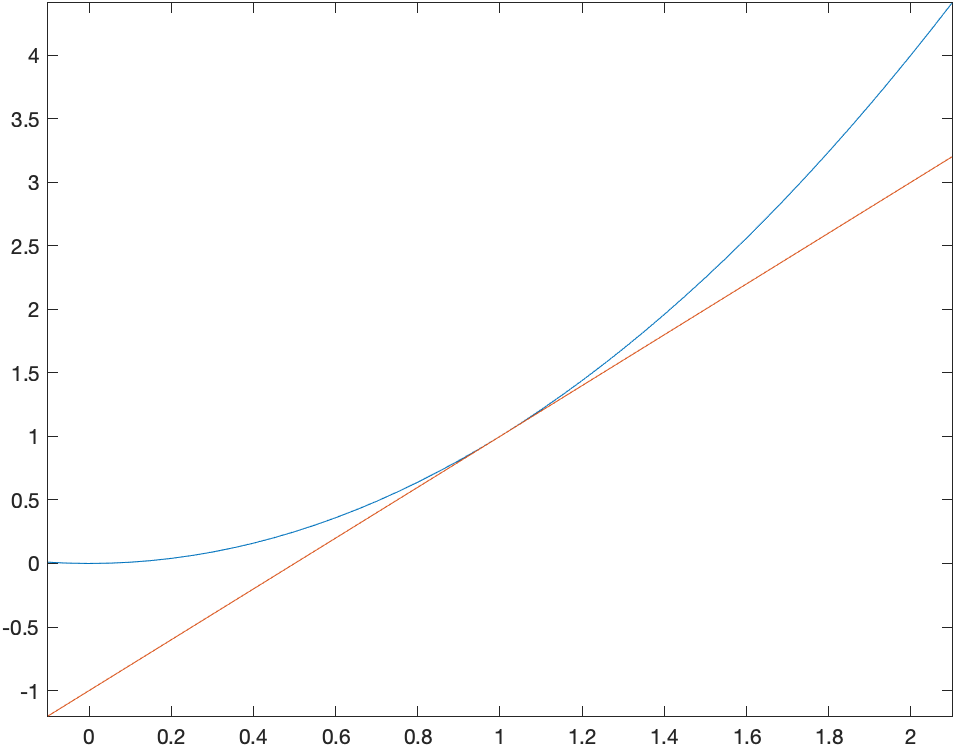
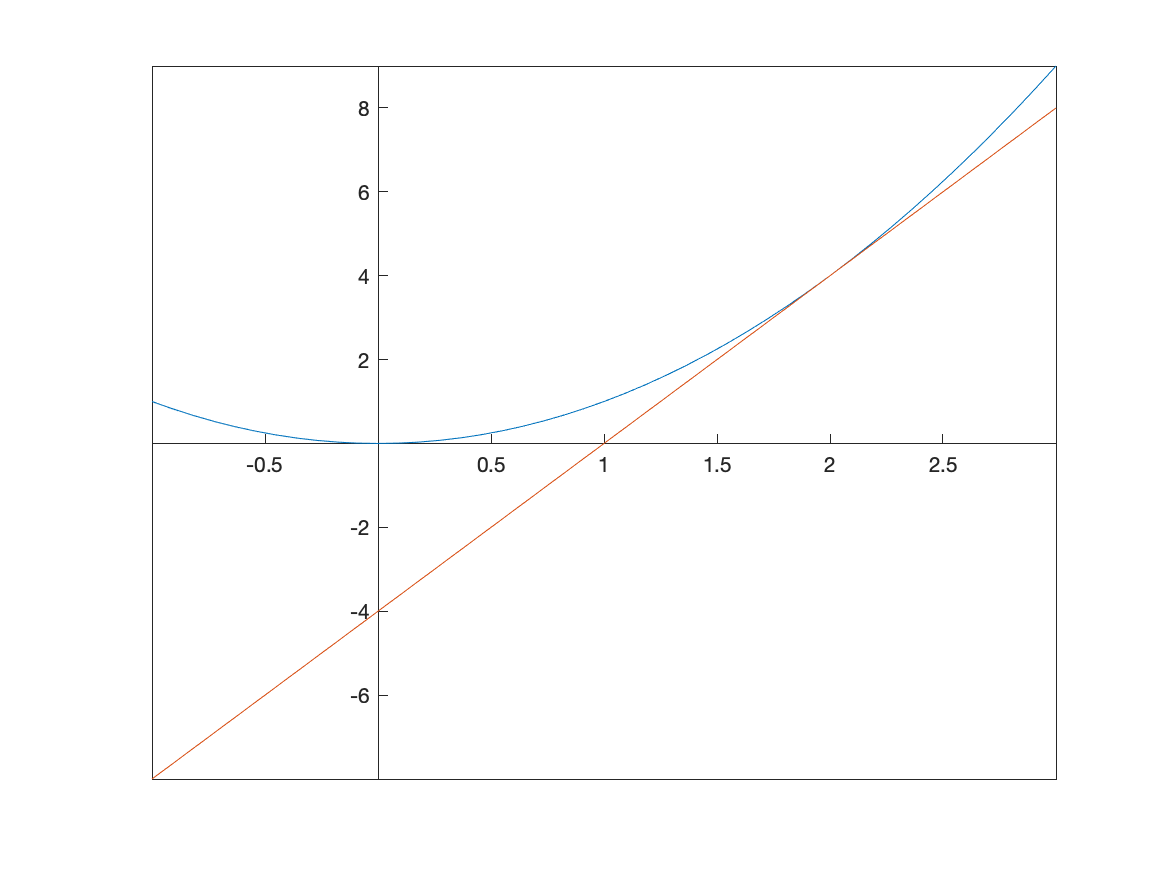
fix some errors.

diff --git a/sym-comp-notes/ch-05.md b/sym-comp-notes/ch-05.md
@@ -40,7 +40,9 @@ We can make the this look a bit more like a table with
 transpose([xvals;yvals])
 ```
 
-it will look like: $$ \begin {array}{ll}
+it will look like:
+
+$$ \begin {array}{ll}
 0.9& 0.81\\
 0.99&0.9801\\
 0.999& 0.998001\\
@@ -150,30 +152,30 @@ The reason that we discuss secant lines in Calculus, is that we want to know the
 If instead of defining the slope of the line through $(1,1)$ and $(2,4)$, instead, let's make a function that is the slope of the line that passes through $(1,1)$ and $(t,t^{2})$.
 
 ```matlab
-syms t slope(t)
-slope(t)=(subs(f,x,t)-subs(f,x,1))/(t-1)
+syms t
+slope(t) = (f(t)-f(1))/(t-1)
 ```
 
 Now this will allow us to find the slope of the secant line for any point $x$.  We can also build a table like above.
 
 ```matlab
 xvals = [1.5,1.9, 1.99, 1.999, 2.001, 2.01, 2.1,2.5]
-slope_vals = arrayfun(@(t) double(slope(t)),xvals)
-transpose([xvals;slope_vals])
+mvals = arrayfun(@(t) double(slope(t)),xvals)
+transpose([xvals; mvals])
 ```
 
 And you will see $$\begin {array}{ll}
-0.5 & 1.500000000 \\
-0.9& 1.900000000\\
-0.99 & 1.990000000\\
-0.999& 1.999000000\\
-1.001& 2.001000000\\
-1.01& 2.010000000\\
-1.1& 2.100000000\\
-1.5& 2.500000000
+1.5 & 3.500000000 \\
+1.9& 3.900000000\\
+1.99 & 3.990000000\\
+1.999& 3.999000000\\
+2.001& 4.001000000\\
+2.01& 4.010000000\\
+2.1& 4.100000000\\
+2.5& 4.500000000
 \end {array}$$
 
-We can use this to estimate the tangent line of $m=2$ which we will verify below.
+We can use this to estimate the tangent line of $m=4$ which we will verify below using the actual limit.
 
 ### The tangent line
 
@@ -181,20 +183,20 @@ Recall that the slope of the tangent line to a curve $f(x)$ at $x=c$ is given by
 $$m = \lim_{x \rightarrow c} \frac{f(x)-f(c)}{x-c}$$
 
 For the function $f(x) = x^2$, the slope is
-$$m = \lim_{x \rightarrow 1} \frac{x^{2}-1}{x-1}$$
+$$m = \lim_{x \rightarrow 2} \frac{x^{2}-2^2}{x-2}$$
 which can be done in Matlab with:
 
 ```matlab
-limit((x^2-1)/(x-1),x,1)
+limit((x^2-2^2)/(x-2),x,2)
 ```
 
-and return 2. Therefore the tangent line is
+and return 4. Therefore the tangent line is
 
 ```matlab
-tanLine=2*(x-1)+1
+tanLine=4*(x-2)+2^2
 ```
 
-and a plot of the function with its tangent line at $x=1$ is given as
+and a plot of the function with its tangent line at $x=2$ is given as
 
 ![Plot of $x^{2}$ and its tangent line](images/ch05/plot04.png)
 
@@ -324,7 +326,7 @@ resulting in
 
 ## Derivatives
 
-Since Maple can handle limits and a derivative is a limit, it should come at no surprise that Maple can handle derivatives.  For example, recall that the definition of the derivative of $f(x)=x^{2}$ is
+Since Matlab can handle limits and a derivative is a limit, it should come at no surprise that Matlab can handle derivatives.  For example, recall that the definition of the derivative of $f(x)=x^{2}$ is
 $$ f'(x) = \lim_{h \rightarrow 0} \frac{(x+h)^{2}-x^{2}}{h} $$
 
 If you enter in the limit
@@ -354,7 +356,7 @@ Find the following derivatives:
 
 ### Higher Derivatives
 
-Maple can also do 2nd-order and higher derivatives quite easily.  Here's an example.  Consider the function
+Matlab can also do 2nd-order and higher derivatives quite easily.  Here's an example.  Consider the function
 
 ```matlab
 g(x)=sin(pi*x)
@@ -407,7 +409,7 @@ where the tick labels have been set to be multiples of $\pi/6$, which we saw in 
 
 ## Implicit Differentiation
 
-If we have a function, then taking the derivative is done by hand using the rules of differentiation and in Maple using one of the techniques above.  However, we don't always have a function to represent a curve.  The classic example is a circle.  Consider the circle with radius 5:
+If we have a function, then taking the derivative is done by hand using the rules of differentiation and in Matlab using one of the techniques above.  However, we don't always have a function to represent a curve.  The classic example is a circle.  Consider the circle with radius 5:
 $$x^{2}+y^{2}=25$$
 It isn't a function (why not?), so we can't differentiate it like we can with a function.  And we still would like to find out geometric information like a tangent line to the curve at a point.
 
@@ -429,8 +431,8 @@ dcirc = diff(circle,x)
 ```
 
 which returns:
-$$2\,y\left(x\right)\,\frac{\partial }{\partial x}\;y\left(x\right)+2\,x=0$$
-and technically the derivative is what is called a partial derivative.  Matlab thinks there are more than 1 variable here.
+$$2\,x+2\,dy\,y\left(x\right)=0$$
+and technically the derivative is actually $dy/dx$.
 
 Now unfortunately, Matlab doesn't have the ability to solve for the derivative (or substitute something else for the derivative), so we will retype this:
 
@@ -441,14 +443,14 @@ dc = 2*y*dy + 2*x == 0
 and then we can solve for `dy` with
 
 ```matlab
-solve(dc,dy)
+solve(dcirc,dy)
 ```
 
 returns
 $$-\frac{x}{y\left(x\right)}$$
 the same result as above.
 
-Obviously, this is not ideal, because we can make a mistake retyping in.  The second section shows an alternative to this
+This is a little clunky.  We now show an alternative to this.
 
 ### Implicit Function Theorem
 
